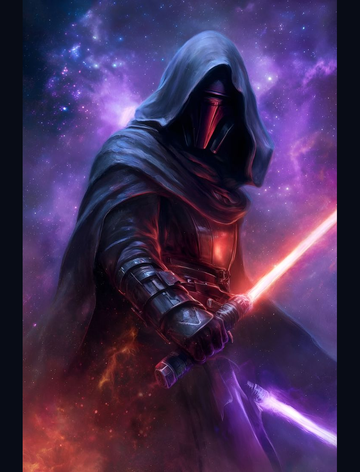
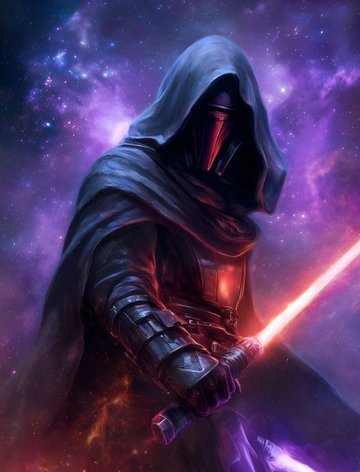
Revan: re-process with no-letterbox smart-crop
User direction: "same with revan" — apply the same fix as Ahsoka 2.

Re-ran tools/smart_crop.py on '~/Downloads/revan.jpg' with the
updated algorithm. Any black-pad bars from the previous letterbox
behavior are gone; the bbox gets clipped at the legs / sides
instead so the figure fills the card with no padding.

Cache: _CARD_ART_VERSION 41→42, ui.js → v595.

diff --git a/index.html b/index.html
@@ -719,7 +719,7 @@
   <script src="https://unpkg.com/peerjs@1.5.4/dist/peerjs.min.js"></script>
   <script src="multiplayer.js?v=5"></script>
   <script src="card-art-manifest.js?v=19"></script>
-  <script src="ui.js?v=594"></script>
+  <script src="ui.js?v=595"></script>
   <script src="logger.js?v=5"></script>
   <!-- Always-on crash capture. Hooks window.onerror +
        unhandledrejection, surfaces a "Copy bug report" button when

diff --git a/ui.js b/ui.js
@@ -13,7 +13,7 @@ const UI = {
   // cached PNGs (which don't have built-in cache busters since they're
   // referenced via background-image url() and not the index.html
   // version-suffix system). Bump this every time you regen art.
-  _CARD_ART_VERSION: 41,
+  _CARD_ART_VERSION: 42,
 
   // =====================================================================
   // CARD ART VARIANTS
